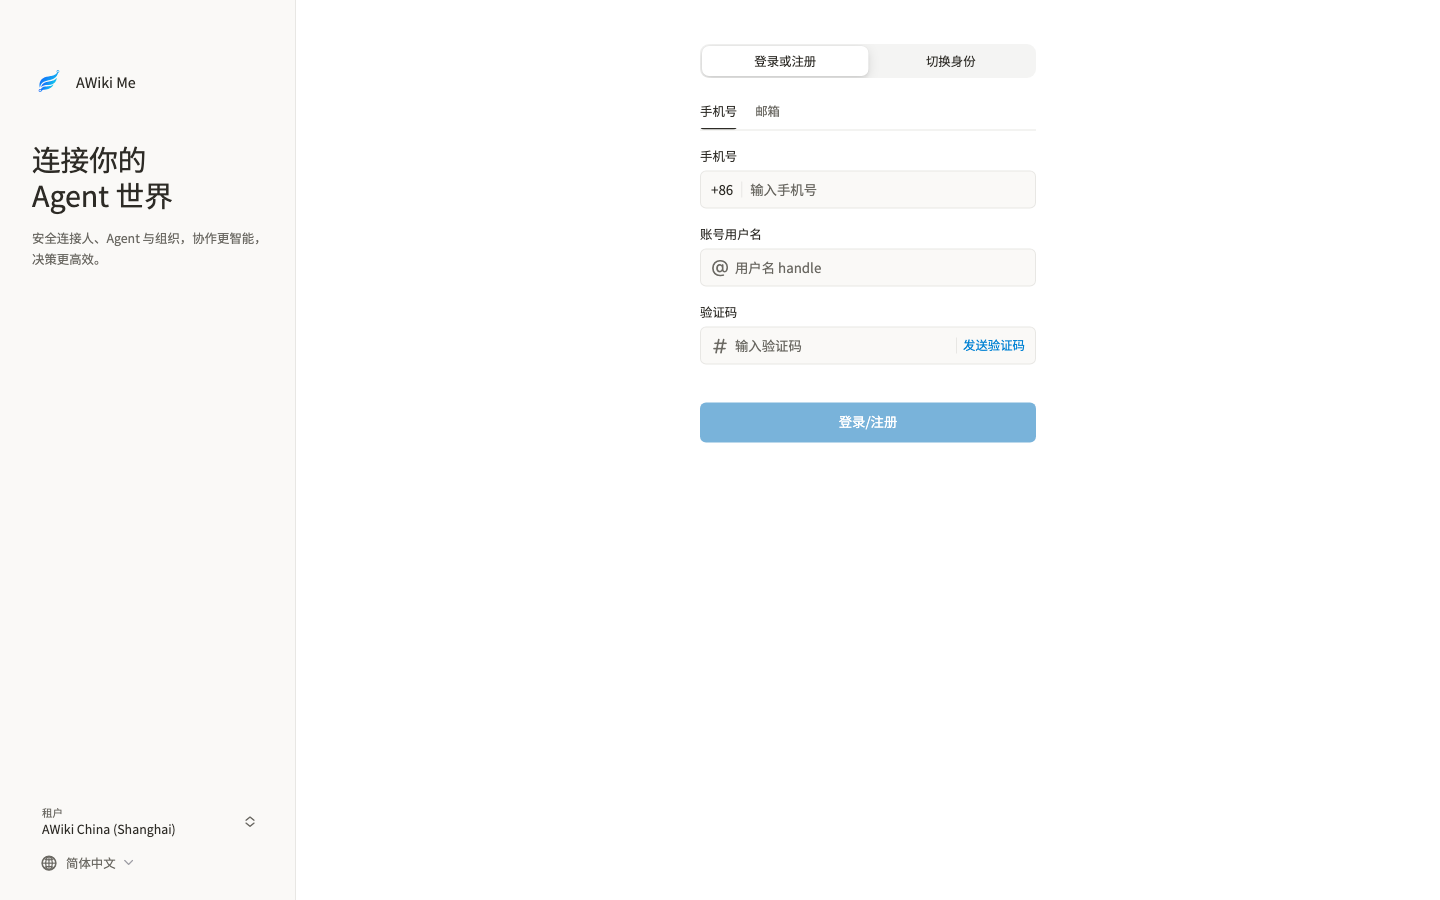
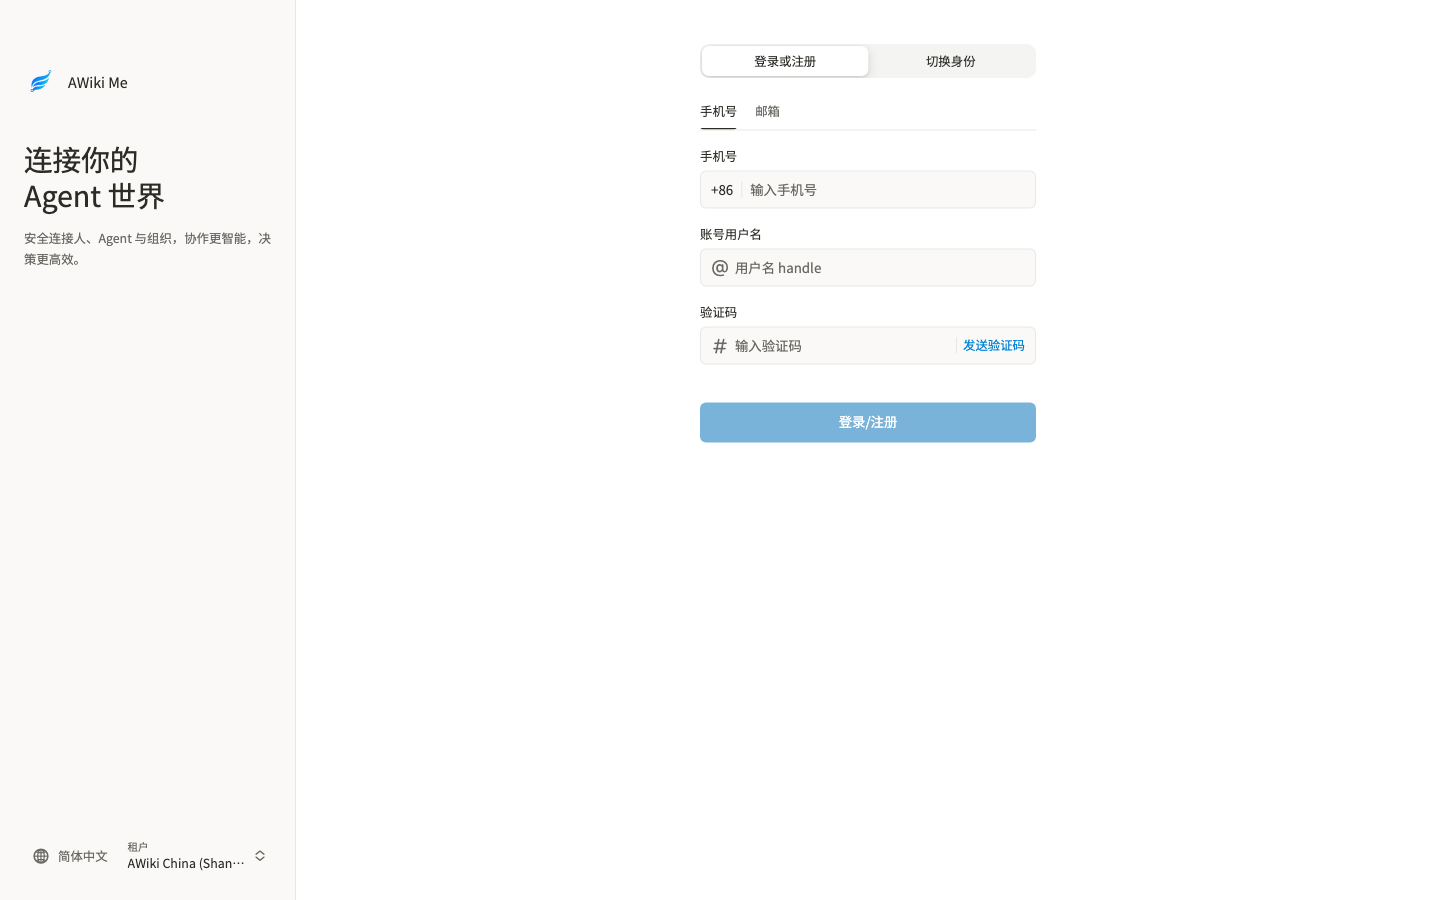
feat(ui): put language and tenant in one login footer row
On the wide desktop login the language control now sits on the left and
the tenant control on the right of a single footer row. The brand pane's
side padding is trimmed, the tenant button shrink-wraps with tighter
padding, and the language button drops its chevron in this row so the
tenant name keeps its space.

Changed region(s): [[0.0, 0.1556, 0.1875, 0.3111], [0.0, 0.9022, 0.1562, 0.9644], [0.0312, 0.0622, 0.0938, 0.0933]]

diff --git a/lib/src/presentation/onboarding/parts/onboarding_mac_part.dart b/lib/src/presentation/onboarding/parts/onboarding_mac_part.dart
@@ -67,15 +67,17 @@ class _MacOnboardingScaffold extends StatelessWidget {
                   onTap: () => showTenantSwitcherMenu(anchorContext),
                 ),
               );
-              final languageButton = Builder(
+              Widget languageButtonFor({required bool showChevron}) => Builder(
                 builder: (anchorContext) => _MacFooterButton(
                   key: const Key('onboarding-language-switcher-button'),
                   icon: CupertinoIcons.globe,
                   label: appLocaleModeLabel(context, localeMode),
                   tooltip: context.l10n.settingsLanguage,
+                  showChevron: showChevron,
                   onTap: () => onLanguagePressed(anchorContext),
                 ),
               );
+              final languageButton = languageButtonFor(showChevron: true);
               final form = Expanded(
                 child: ColoredBox(
                   color: phone ? const Color(0x00000000) : theme.surface,
@@ -173,7 +175,7 @@ class _MacOnboardingScaffold extends StatelessWidget {
                       color: theme.background,
                       border: Border(right: BorderSide(color: theme.border)),
                     ),
-                    padding: const EdgeInsets.fromLTRB(32, 64, 28, 20),
+                    padding: const EdgeInsets.fromLTRB(24, 64, 20, 20),
                     child: Column(
                       crossAxisAlignment: CrossAxisAlignment.start,
                       children: <Widget>[
@@ -182,8 +184,23 @@ class _MacOnboardingScaffold extends StatelessWidget {
                             child: _MacOnboardingHero(),
                           ),
                         ),
-                        tenantButton,
-                        languageButton,
+                        // Language on the left, tenant on the right, in one
+                        // footer row.
+                        Row(
+                          key: const Key('onboarding-brand-footer'),
+                          children: <Widget>[
+                            // Space is tight beside the tenant, so the globe
+                            // alone marks the language control here.
+                            languageButtonFor(showChevron: false),
+                            const SizedBox(width: 4),
+                            Expanded(
+                              child: Align(
+                                alignment: Alignment.centerRight,
+                                child: tenantButton,
+                              ),
+                            ),
+                          ],
+                        ),
                       ],
                     ),
                   ),
@@ -1461,10 +1478,11 @@ class _MacTenantButton extends StatelessWidget {
         child: child,
       ),
       child: Padding(
-        padding: const EdgeInsets.symmetric(horizontal: 10, vertical: 8),
+        padding: const EdgeInsets.symmetric(horizontal: 8, vertical: 8),
         child: Row(
+          mainAxisSize: MainAxisSize.min,
           children: <Widget>[
-            Expanded(
+            Flexible(
               child: Column(
                 crossAxisAlignment: CrossAxisAlignment.start,
                 mainAxisSize: MainAxisSize.min,
@@ -1482,7 +1500,7 @@ class _MacTenantButton extends StatelessWidget {
                 ],
               ),
             ),
-            const SizedBox(width: 8),
+            const SizedBox(width: 6),
             Icon(
               CupertinoIcons.chevron_up_chevron_down,
               color: theme.secondaryText,
@@ -1502,12 +1520,14 @@ class _MacFooterButton extends StatelessWidget {
     required this.label,
     required this.tooltip,
     required this.onTap,
+    this.showChevron = true,
   });
 
   final IconData icon;
   final String label;
   final String tooltip;
   final VoidCallback onTap;
+  final bool showChevron;
 
   @override
   Widget build(BuildContext context) {
@@ -1539,12 +1559,14 @@ class _MacFooterButton extends StatelessWidget {
                   ),
                 ),
               ),
-              const SizedBox(width: 7),
-              Icon(
-                CupertinoIcons.chevron_down,
-                color: context.awikiTheme.tertiaryText,
-                size: 12,
-              ),
+              if (showChevron) ...<Widget>[
+                const SizedBox(width: 7),
+                Icon(
+                  CupertinoIcons.chevron_down,
+                  color: context.awikiTheme.tertiaryText,
+                  size: 12,
+                ),
+              ],
             ],
           ),
         ),

diff --git a/tests/unit/onboarding_page_test.dart b/tests/unit/onboarding_page_test.dart
@@ -353,7 +353,9 @@ void main() {
     expect(heroRect.right, lessThan(cardRect.left));
     expect(cardRect.width, moreOrLessEquals(336, epsilon: 0.1));
     expect(cardRect.height, lessThan(900 * 0.8));
-    expect(languageRect.top, greaterThanOrEqualTo(tenantRect.bottom));
+    // Language and tenant share one footer row: language left, tenant right.
+    expect(languageRect.right, lessThanOrEqualTo(tenantRect.left));
+    expect(languageRect.center.dy, closeTo(tenantRect.center.dy, 12));
     expect(
       tester.getSize(find.byKey(const Key('onboarding-brand-pane'))).width,
       296,
